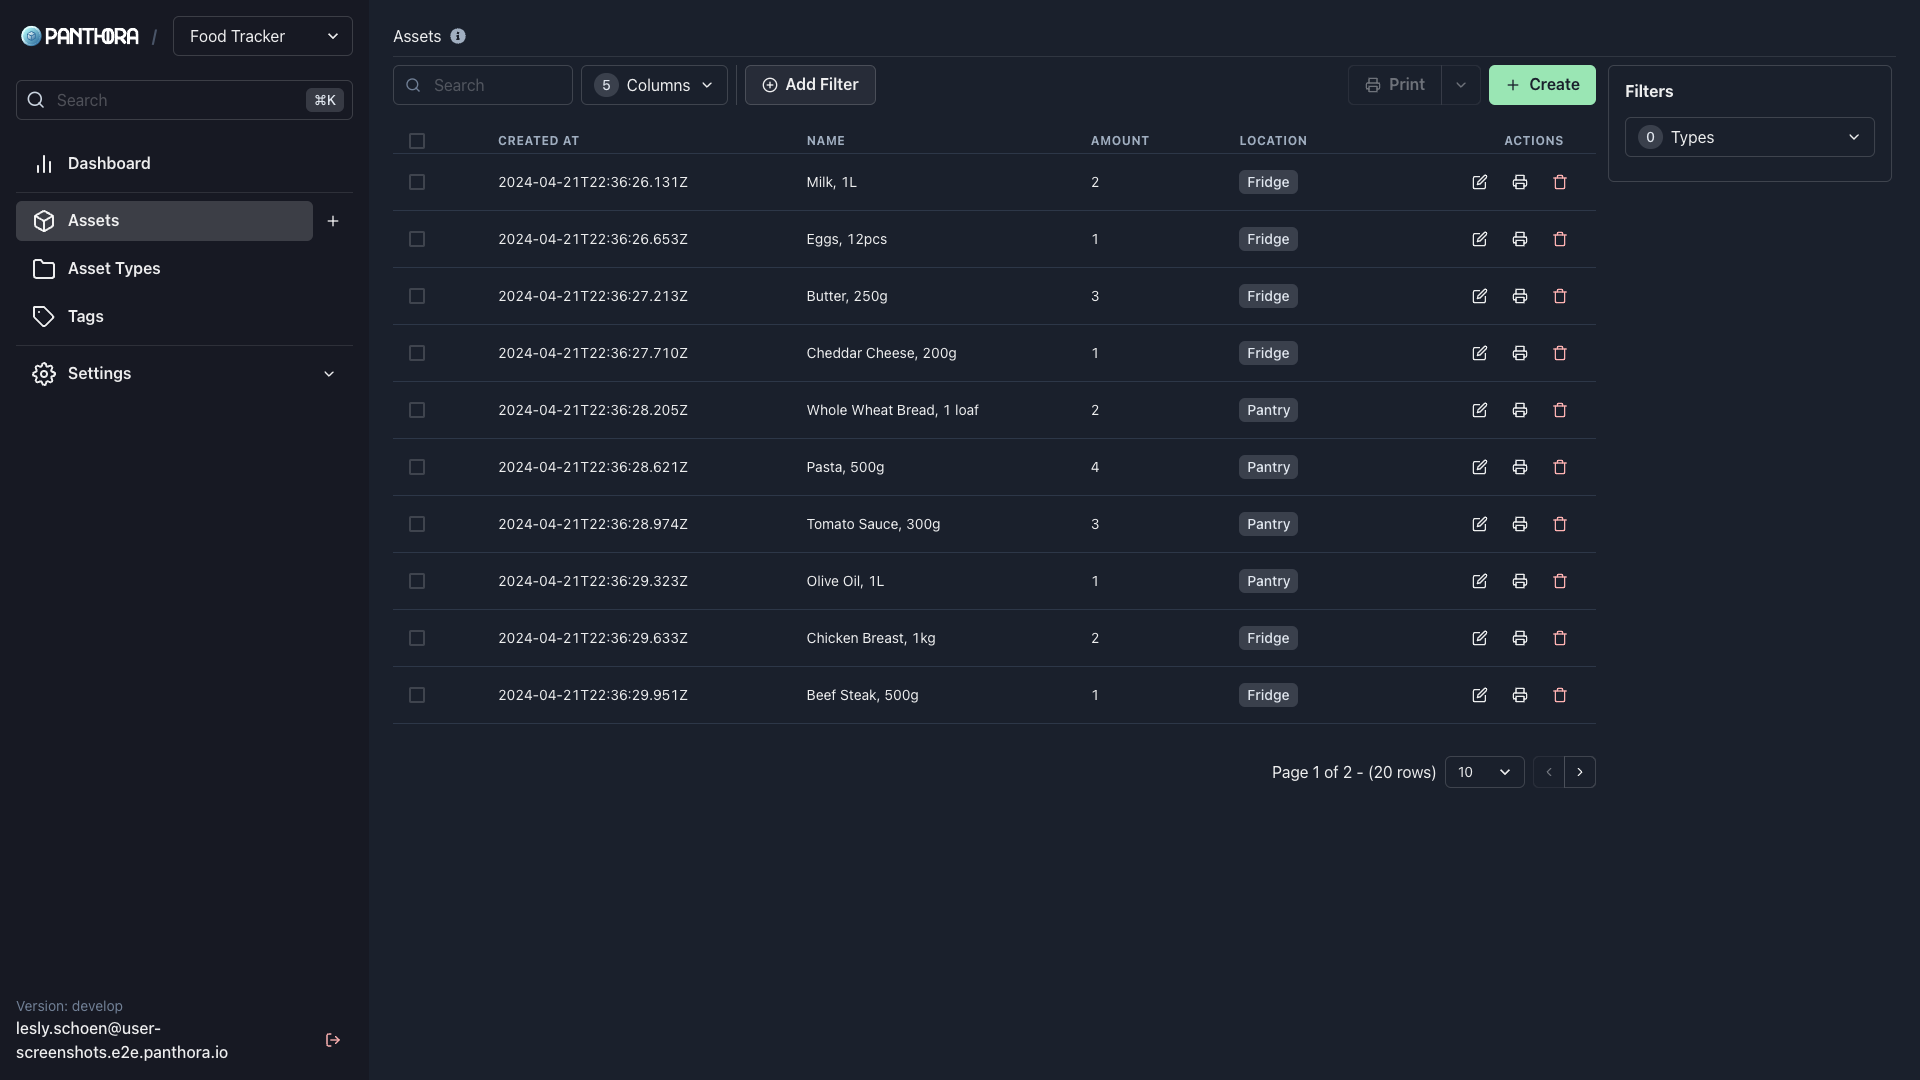
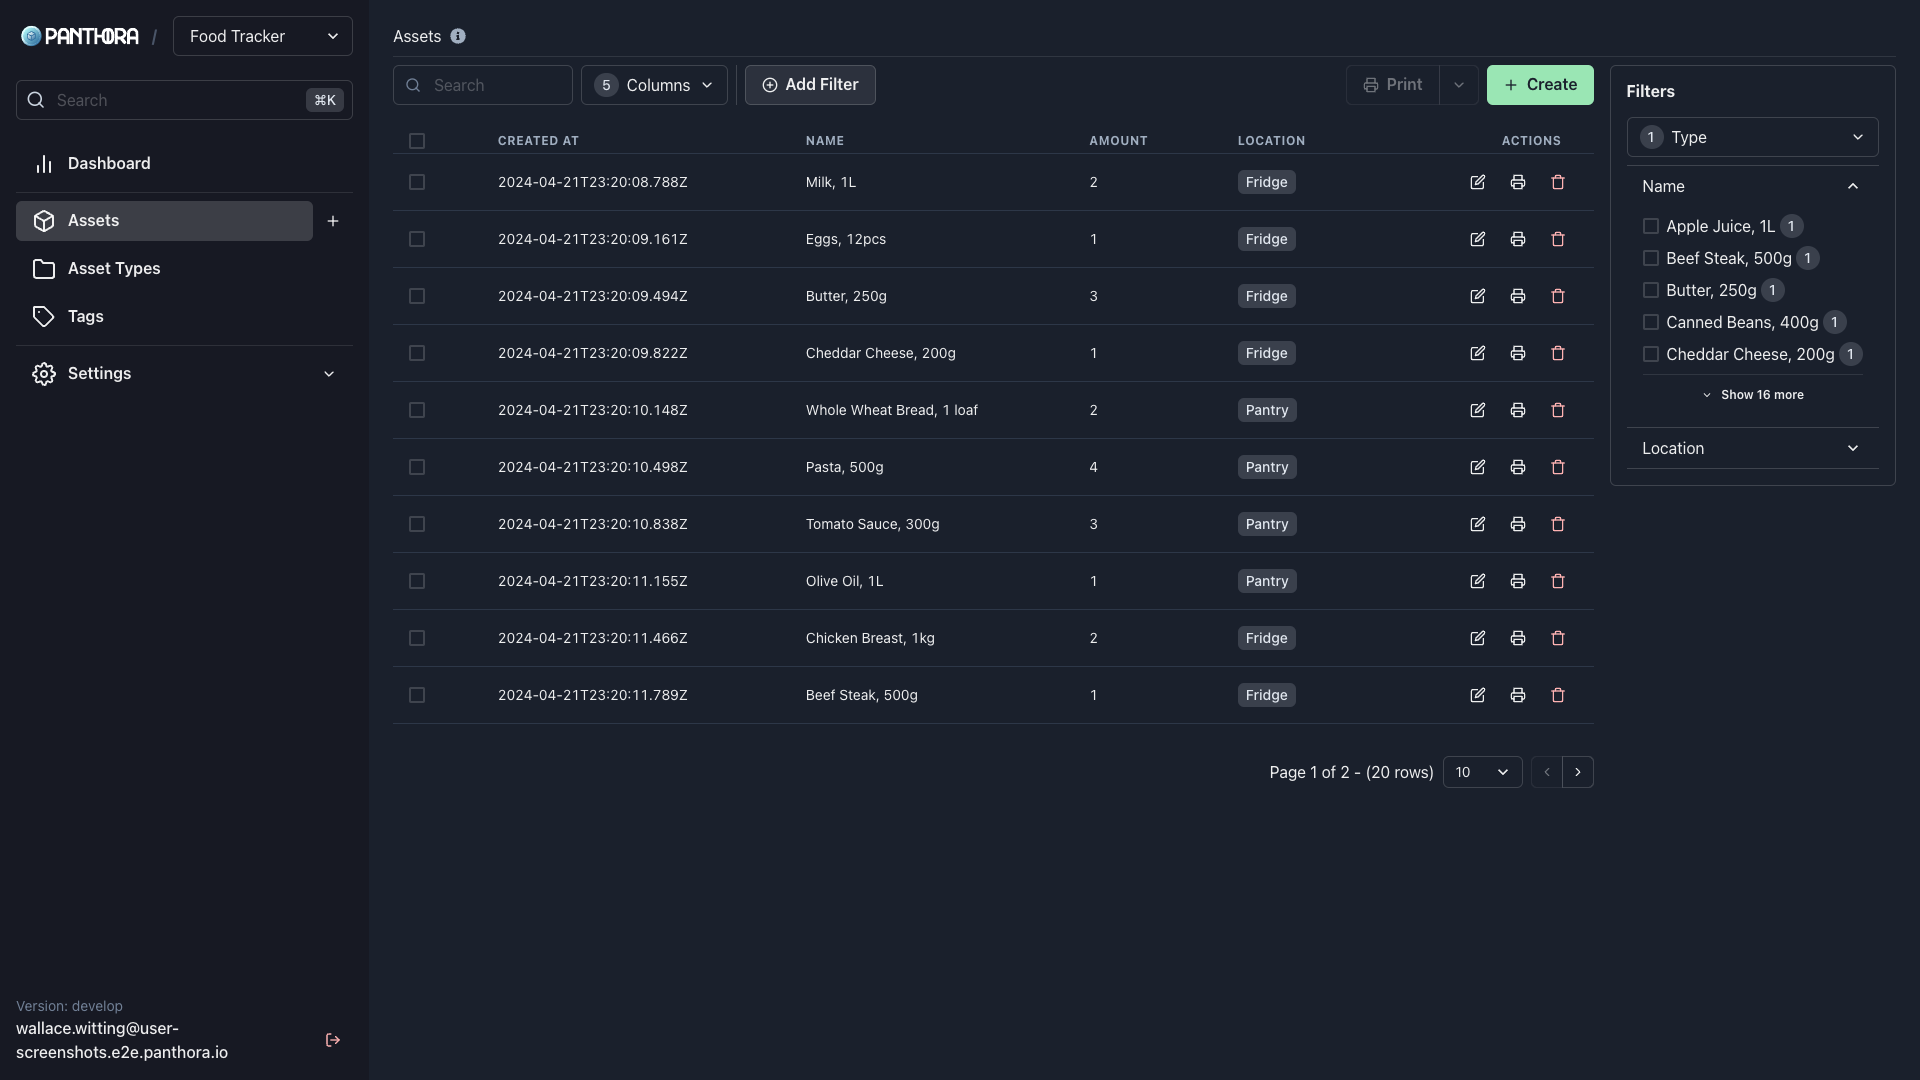
Add workaround for #147

diff --git a/packages/app/tests/screenshots/cover.spec.ts b/packages/app/tests/screenshots/cover.spec.ts
@@ -3,8 +3,17 @@ import { expect, screenshot, withLogin } from "tests/utils/fixtures";
 screenshot.describe("website", () => {
   withLogin("user-screenshots", screenshot);
   screenshot("cover", async ({ page, takeScreenshot }) => {
-    await page.goto("/assets");
+    // TODO: Workaround until #147 is fixed. Remove once fixed.
+    await page.goto("/settings/team");
     await page.waitForLoadState("networkidle");
+    const rebuildIndexes = page.getByRole("button", {
+      name: "Rebuild Search Indexes",
+    });
+    await expect(rebuildIndexes).toBeVisible();
+    await rebuildIndexes.click();
+    // --- End of workaround
+
+    await page.goto("/assets");
 
     const addFilterButton = page.getByRole("button", {
       name: "Add Filter",
@@ -13,8 +22,8 @@ screenshot.describe("website", () => {
     const moreCollapse = page.getByText("Show 16 more");
 
     await milkCell.waitFor({ state: "visible", timeout: 5000 });
-    await addFilterButton.click();
 
+    await addFilterButton.click();
     await expect(moreCollapse).toBeVisible();
 
     await takeScreenshot();

diff --git a/packages/app/tests/utils/fixtures.ts b/packages/app/tests/utils/fixtures.ts
@@ -50,6 +50,7 @@ export const screenshot = base.extend<ScreenshotFixture>({
       page,
       e2eUsers["user-screenshots"]
     );
+    await panthoraPage.loadCookiesFromContext();
     await use(panthoraPage);
   },
   addUserAnnotation: [
